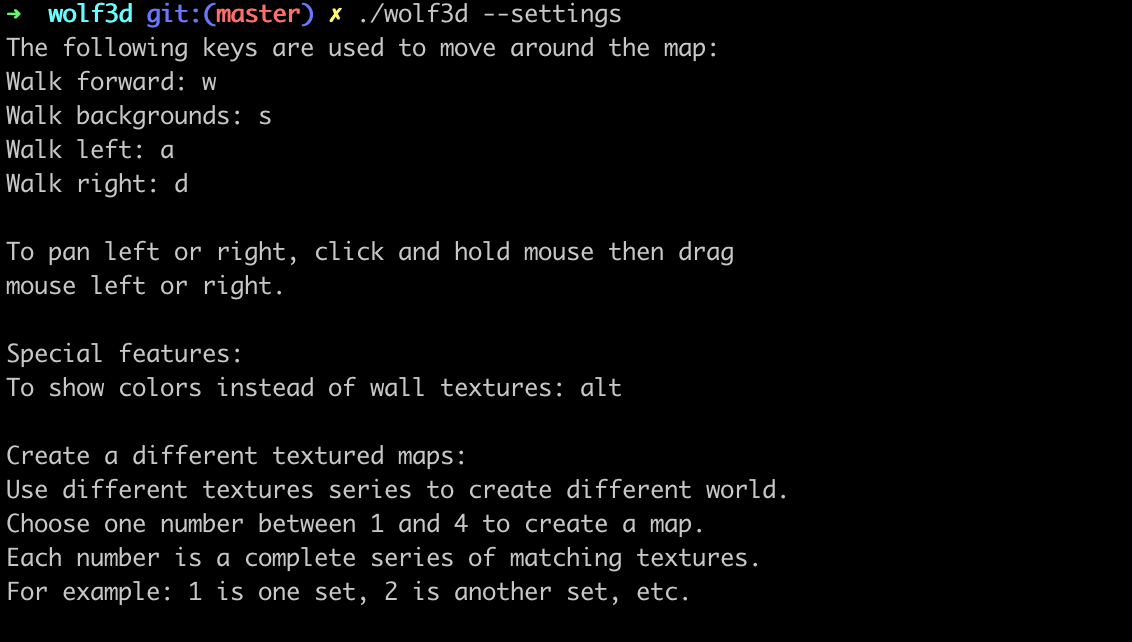
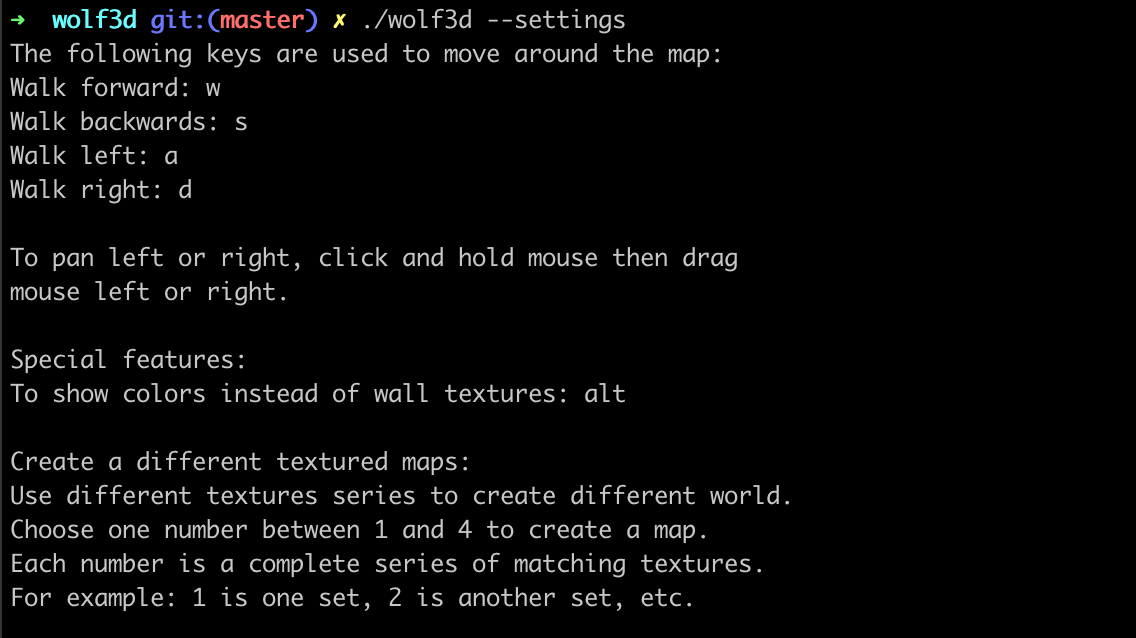
fixed background to backwards

diff --git a/srcs/print_menu.c b/srcs/print_menu.c
@@ -6,7 +6,7 @@
 /*   By: JessicaSmith <JessicaSmith@student.coda      +#+                     */
 /*                                                   +#+                      */
 /*   Created: 2020/07/20 19:01:30 by JessicaSmit   #+#    #+#                 */
-/*   Updated: 2020/07/20 19:11:28 by JessicaSmit   ########   odam.nl         */
+/*   Updated: 2020/07/20 19:15:24 by JessicaSmit   ########   odam.nl         */
 /*                                                                            */
 /* ************************************************************************** */
 
@@ -16,7 +16,7 @@ void		print_settings_menu(void)
 {
 	ft_putendl("The following keys are used to move around the map:");
 	ft_putendl("Walk forward: w");
-	ft_putendl("Walk backgrounds: s");
+	ft_putendl("Walk backwards: s");
 	ft_putendl("Walk left: a");
 	ft_putendl("Walk right: d\n");
 	ft_putendl("To pan left or right, click and hold mouse then drag");
